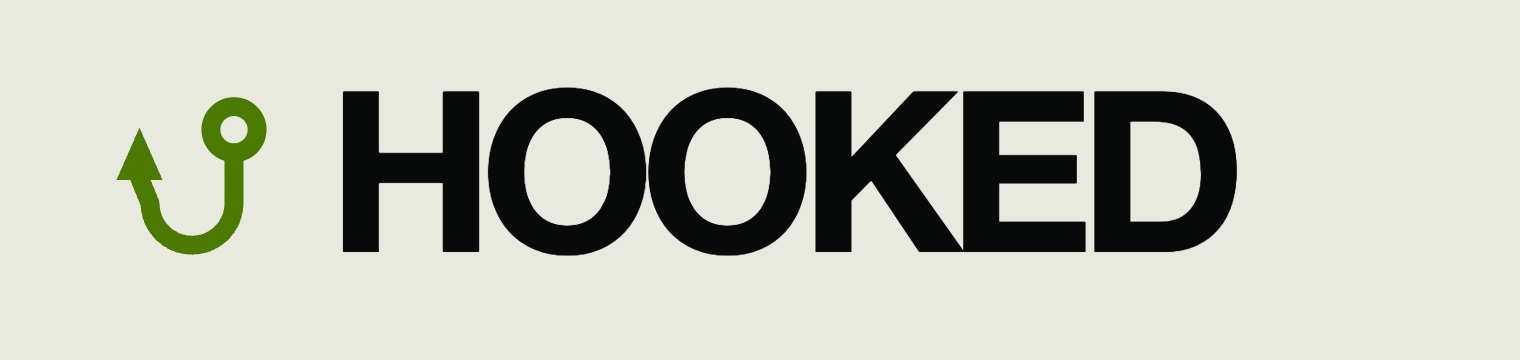
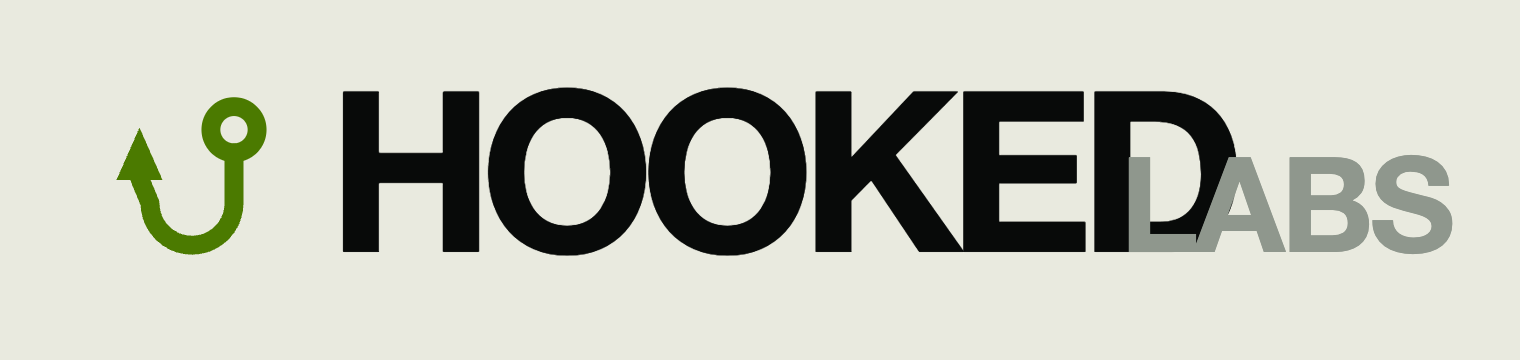
brand: the site is HOOKED LABS
LABS was only ever a URL compromise (hooked.vercel.app and gethooked were
taken). It is now the actual name: nav wordmark, page titles, footers,
social cards and the wordmark asset. LABS is set back in machine gray so
HOOKED still carries the mark at small sizes, and GET HOOKED. stays the line.

Changed region(s): [[0.7421, 0.4278, 0.9586, 0.7028]]

diff --git a/index.html b/index.html
@@ -4,25 +4,25 @@
   <meta charset="UTF-8" />
   <meta name="viewport" content="width=device-width, initial-scale=1.0" />
   <meta name="theme-color" content="#080a09" />
-  <title>HOOKED — Experimental Markets</title>
-  <meta name="description" content="HOOKED is a lab for mechanism-driven launches on Robinhood Chain. Launch #001: HATCH." />
+  <title>HOOKED LABS — Experimental Markets</title>
+  <meta name="description" content="HOOKED LABS is a lab for mechanism-driven launches on Robinhood Chain. Launch #001: HATCH." />
   <link rel="icon" type="image/svg+xml" href="./assets/favicon.svg" />
   <link rel="apple-touch-icon" href="./assets/hooked-icon-dark.svg" />
   <meta property="og:type" content="website" />
-  <meta property="og:title" content="HOOKED — Tokens with a mechanism inside." />
-  <meta property="og:description" content="HOOKED is a lab for mechanism-driven launches on Robinhood Chain. Launch #001: HATCH." />
+  <meta property="og:title" content="HOOKED LABS — Tokens with a mechanism inside." />
+  <meta property="og:description" content="HOOKED LABS is a lab for mechanism-driven launches on Robinhood Chain. Launch #001: HATCH." />
   <meta property="og:image" content="./assets/social/og-hooked.svg" />
   <meta name="twitter:card" content="summary_large_image" />
-  <meta name="twitter:title" content="HOOKED — Tokens with a mechanism inside." />
-  <meta name="twitter:description" content="HOOKED is a lab for mechanism-driven launches on Robinhood Chain. Launch #001: HATCH." />
+  <meta name="twitter:title" content="HOOKED LABS — Tokens with a mechanism inside." />
+  <meta name="twitter:description" content="HOOKED LABS is a lab for mechanism-driven launches on Robinhood Chain. Launch #001: HATCH." />
   <meta name="twitter:image" content="./assets/social/og-hooked.svg" />
   <link rel="stylesheet" href="./styles.css" />
 </head>
 <body data-page="home">
   <div class="noise"></div>
   <header class="nav shell">
-    <a href="./" class="brand" aria-label="HOOKED home">
-      <img class="hook-mark" src="./assets/hook-mark.svg" alt="" width="26" height="30" /><span>HOOKED</span>
+    <a href="./" class="brand" aria-label="HOOKED LABS home">
+      <img class="hook-mark" src="./assets/hook-mark.svg" alt="" width="26" height="30" /><span>HOOKED<em>LABS</em></span>
     </a>
     <nav><a href="./hatch.html">001 / HATCH</a><a href="#manifesto">MANIFESTO</a></nav>
   </header>
@@ -66,13 +66,13 @@
     </section>
 
     <section class="manifesto shell" id="manifesto">
-      <div class="section-head"><span>THE RULE</span><span>HOOKED / 2026</span></div>
+      <div class="section-head"><span>THE RULE</span><span>HOOKED LABS / 2026</span></div>
       <blockquote>DON'T LAUNCH<br>A TOKEN.<br><em>LAUNCH A BEHAVIOR.</em></blockquote>
-      <p>HOOKED releases small onchain experiments whose economics are visible, mechanical and weird enough to explain in one sentence.</p>
+      <p>HOOKED LABS releases small onchain experiments whose economics are visible, mechanical and weird enough to explain in one sentence.</p>
     </section>
   </main>
 
-  <footer class="shell"><span>HOOKED // ROBINHOOD CHAIN</span><span>EXPERIMENTS ARE RISKY. MECHANICS ARE NOT PROMISES.</span></footer>
+  <footer class="shell"><span>HOOKED LABS // ROBINHOOD CHAIN</span><span>EXPERIMENTS ARE RISKY. MECHANICS ARE NOT PROMISES.</span></footer>
   <script src="./app.js"></script>
 </body>
 </html>

diff --git a/hatch.html b/hatch.html
@@ -4,7 +4,7 @@
   <meta charset="UTF-8" />
   <meta name="viewport" content="width=device-width, initial-scale=1.0" />
   <meta name="theme-color" content="#080a09" />
-  <title>HATCH — HOOKED 001</title>
+  <title>HATCH — HOOKED LABS 001</title>
   <meta name="description" content="HATCH: every trade feeds the egg NVIDIA." />
   <link rel="icon" type="image/svg+xml" href="./assets/favicon.svg" />
   <link rel="apple-touch-icon" href="./assets/hooked-icon-dark.svg" />
@@ -21,7 +21,7 @@
 <body data-page="hatch">
   <div class="noise"></div>
   <header class="nav shell">
-    <a href="./" class="brand"><img class="hook-mark" src="./assets/hook-mark.svg" alt="" width="26" height="30" /><span>HOOKED</span></a>
+    <a href="./" class="brand"><img class="hook-mark" src="./assets/hook-mark.svg" alt="" width="26" height="30" /><span>HOOKED<em>LABS</em></span></a>
     <nav><a href="./">ALL EXPERIMENTS</a><a href="#mechanism">MECHANISM</a></nav>
   </header>
 
@@ -135,7 +135,7 @@
       <p>NVDA in the egg can only ever leave one way: a permissionless crack that buys HATCH and burns it, paying the caller 5%. There is no withdrawal, rescue or upgrade path, and no admin. Nothing here is financial advice.</p>
     </section>
 
-  <footer class="shell"><span>HOOKED 001 // HATCH</span><span>THE EGG DOES NOT PROMISE RETURNS. IT JUST GETS FED, AND CRACKED.</span></footer>
+  <footer class="shell"><span>HOOKED LABS 001 // HATCH</span><span>THE EGG DOES NOT PROMISE RETURNS. IT JUST GETS FED, AND CRACKED.</span></footer>
   <script src="./config.js"></script>
   <script src="./app.js"></script>
 </body>

diff --git a/styles.css b/styles.css
@@ -49,3 +49,8 @@
   width:min(38vw,520px);height:auto;opacity:.16;pointer-events:none;z-index:0}
 .hero>*:not(.hero-hook){position:relative;z-index:1}
 @media(max-width:850px){.hero-hook{display:none}}
+
+/* --- wordmark: HOOKED LABS --------------------------------------------
+   LABS sits back so HOOKED still carries the mark at small sizes. */
+.brand em{font-style:normal;font-weight:800;color:var(--muted);letter-spacing:-.02em;margin-left:.34em;font-size:.62em;vertical-align:.12em}
+.brand:hover em{color:var(--acid)}
